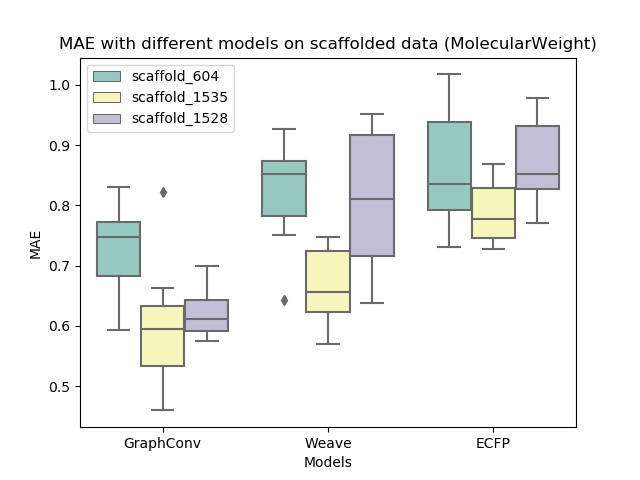
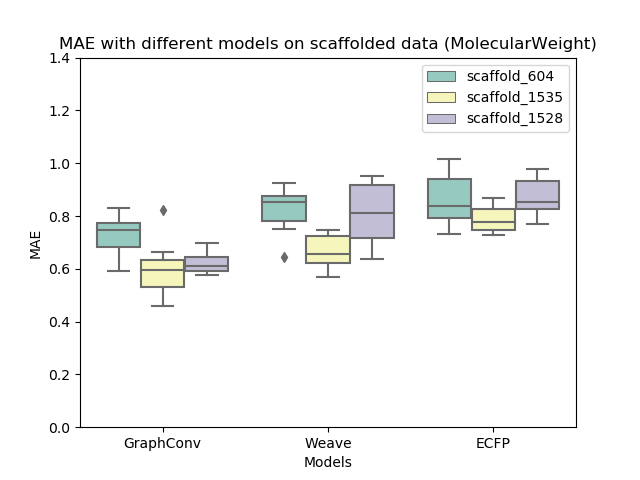
added butina sweep

diff --git a/scaffolds_analyze.py b/scaffolds_analyze.py
@@ -1,4 +1,6 @@
 # Script to analyze statistical properties of the scaffold
+from copy import deepcopy
+
 import numpy as np
 import pandas as pd
 import matplotlib.pyplot as plt
@@ -25,6 +27,43 @@ if __name__ == "__main__":
     
     for name, splitter in splitter_dict.items():
         if name == "Butina":
+            results = [list(), list(), list(), list()]
+            for i in range (0, 100):
+                print(f"Generating Butina scaffold: {i}")
+                i_float = float(i)/100
+                scaffold_sets = splitter.generate_scaffolds(wang_train, cutoff=i_float)
+                scaffold_dict_sum = {k: len(v) for k, v in enumerate(scaffold_sets)}
+                scaffold_sum = [v for v in scaffold_dict_sum.values()]
+                more_than_5 =  len([v for v in scaffold_sum if v >= 5 and v < 50])
+                more_than_50 =  len([v for v in scaffold_sum if v >= 50 and v <= 100])
+                more_than_100 =  len([v for v in scaffold_sum if v >= 100])
+
+                results[0].append(i_float)
+                results[1].append(more_than_5)
+                results[2].append(more_than_50)
+                results[3].append(more_than_100)
+            
+            results_dict = {}
+            results_dict["x"] = deepcopy(results[0])
+            results_dict["Count"] = results[1]
+            results_dict["Type"] = ["50> count >=5" for i in range(len(results[1]))]
+
+            results_dict["x"] += deepcopy(results[0])
+            results_dict["Count"] += results[2]
+            results_dict["Type"] += ["100> count >=50" for i in range(len(results[2]))]
+
+            results_dict["x"] += deepcopy(results[0])
+            results_dict["Count"] += results[3]
+            results_dict["Type"] += ["count >=100" for i in range(len(results[3]))]
+            
+            print(results_dict)
+            sc_plot = sns.scatterplot(x="x", y="Count", hue="Type", data=results_dict)
+            plt.title(f'Butina Sweep: Count of cluster sizes for specific Tanimoto threshold')
+            plt.xlabel('Tanimoto threshold')
+            plt.ylabel('Count of clusters')
+            sc_plot.figure.savefig(path_results + f"/Butina_sweep.png")
+            plt.clf()
+
             scaffold_sets = splitter.generate_scaffolds(wang_train, cutoff=0.8)
         else:
             scaffold_sets = splitter.generate_scaffolds(wang_train)

diff --git a/utils.py b/utils.py
@@ -97,7 +97,7 @@ def visualize_benchmark1_3_results(path_read: str = None, path_write: str = None
         print(df["scaffold"].unique())
         ax = sns.boxplot(x="model", y="mae", hue="scaffold", 
                         data=df_converter_temp, palette="Set3")
-        ax.set(xlabel='Models', ylabel='MAE')
+        ax.set(xlabel='Models', ylabel='MAE', ylim=(0, 1.4))
         ax.set_title(f'MAE with different models on scaffolded data ({splitter_name})')
         ax.figure.savefig(path_write[:-4] + f"_{splitter_name}_boxplots.png")
         plt.clf()
